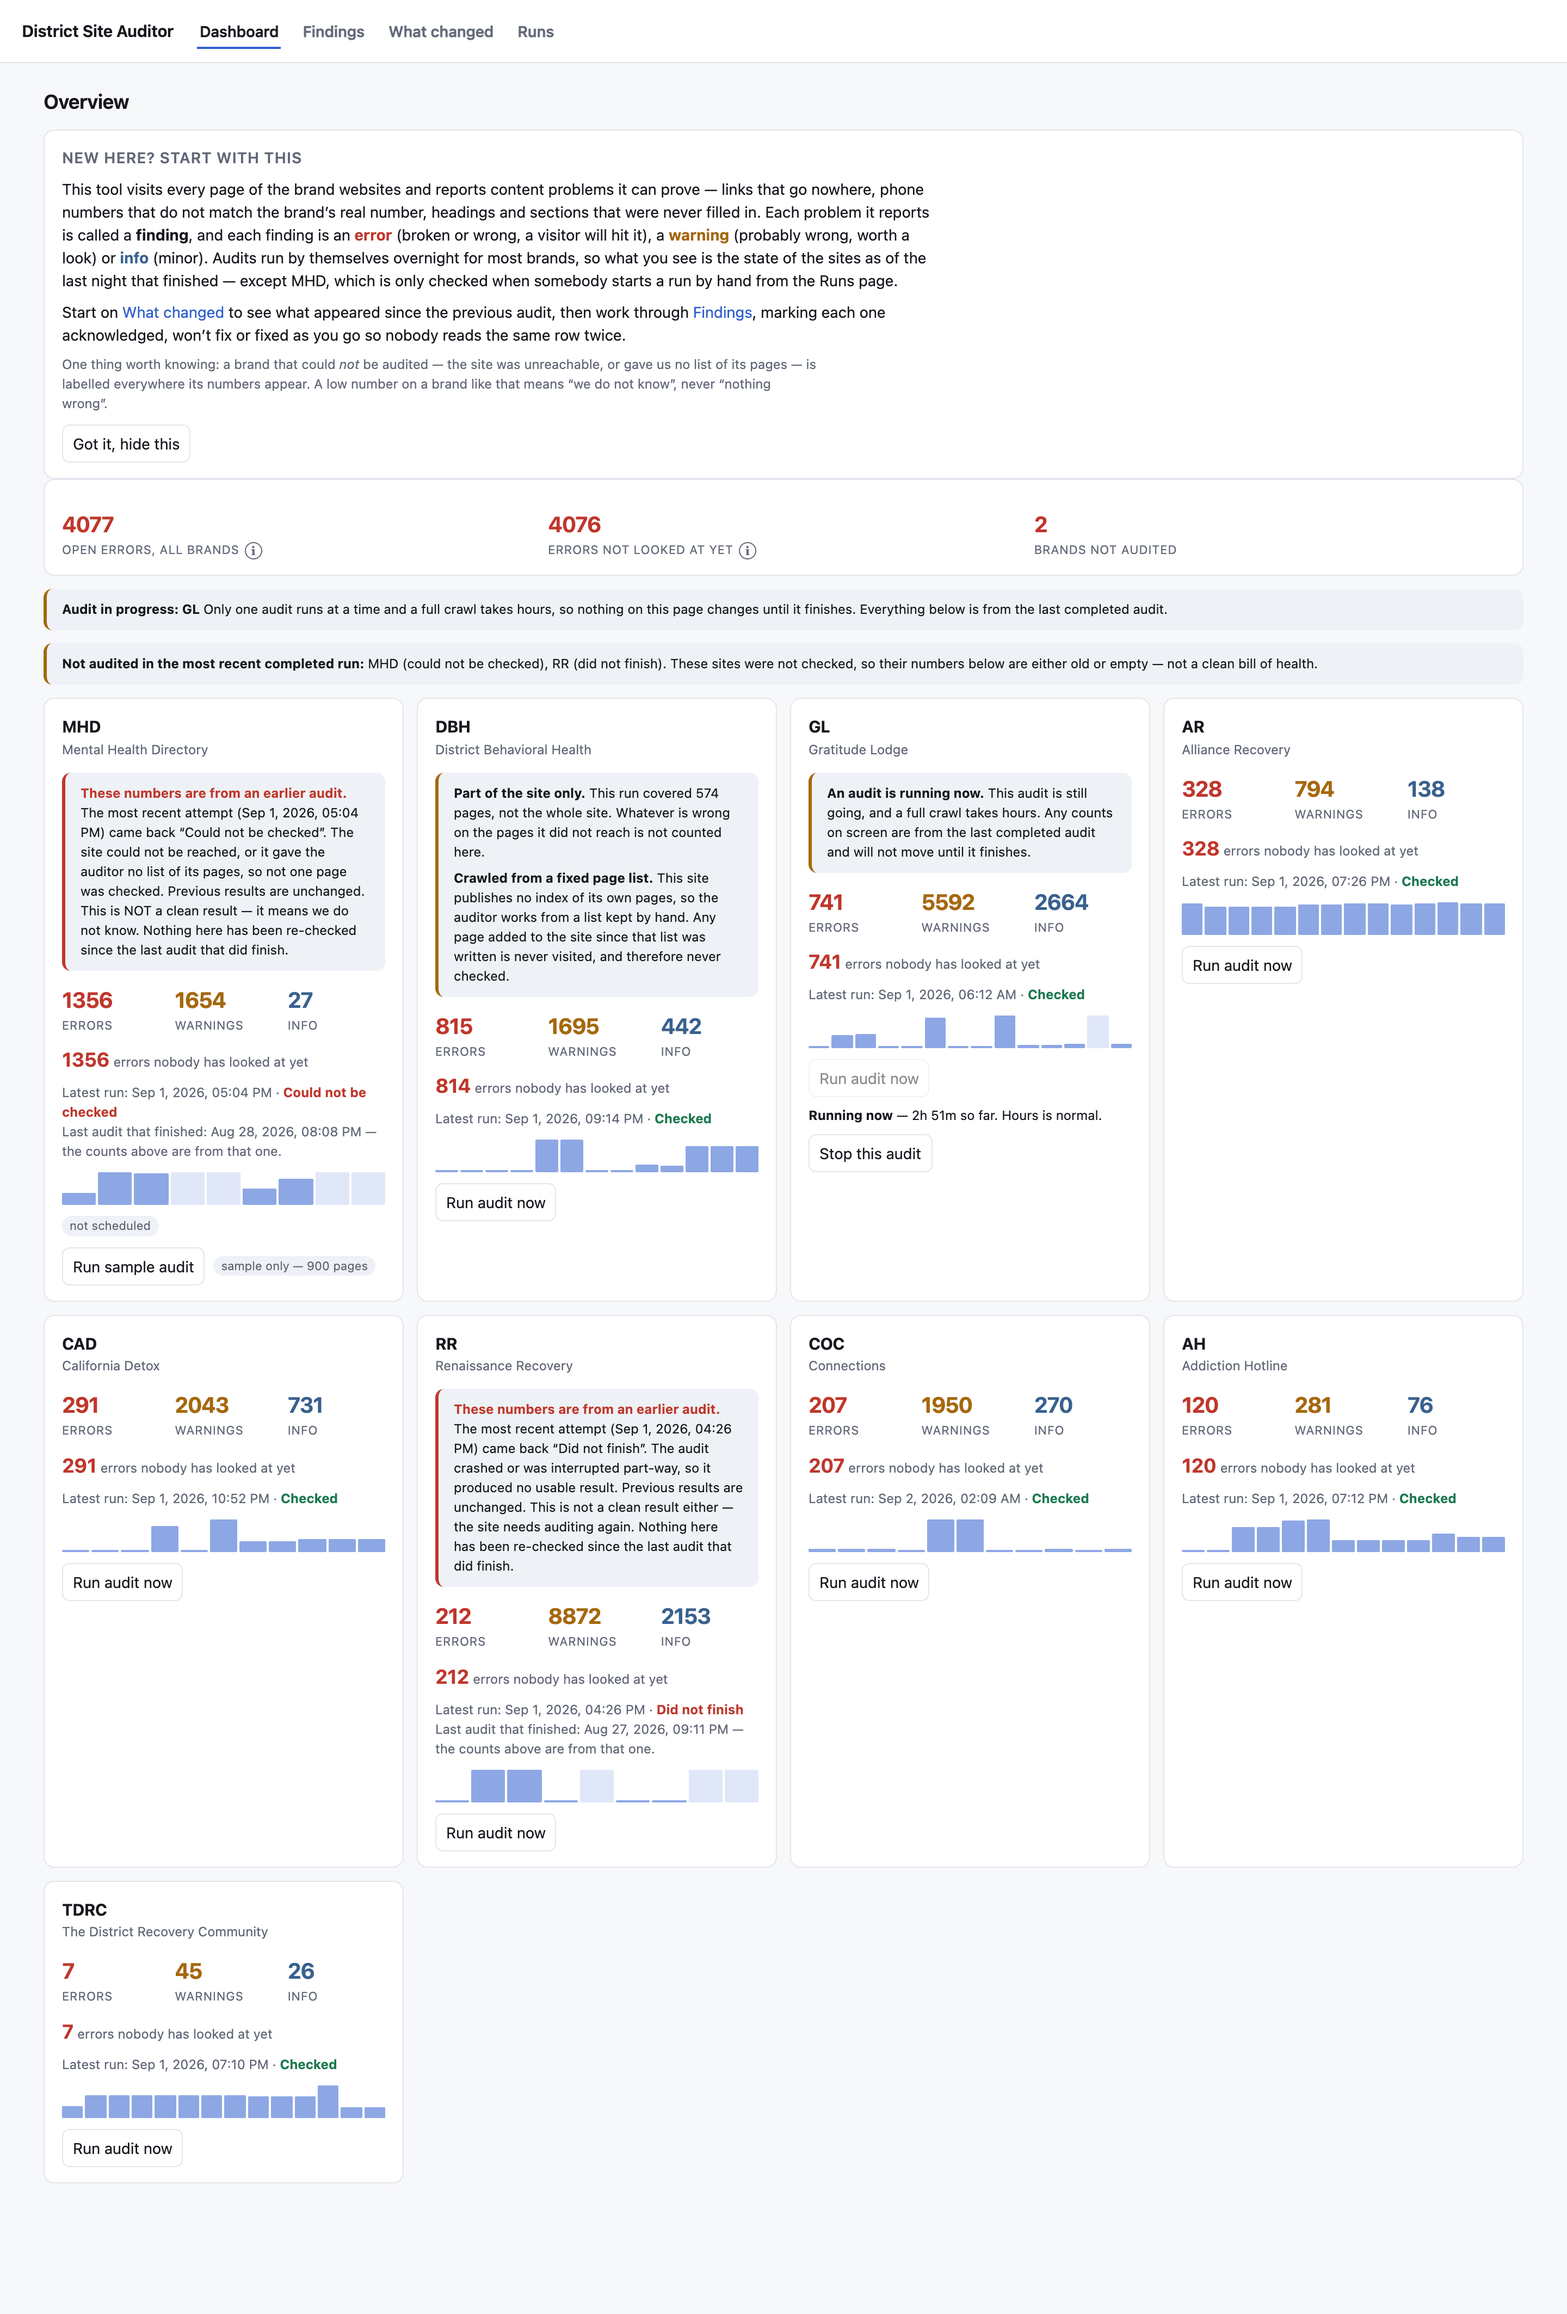
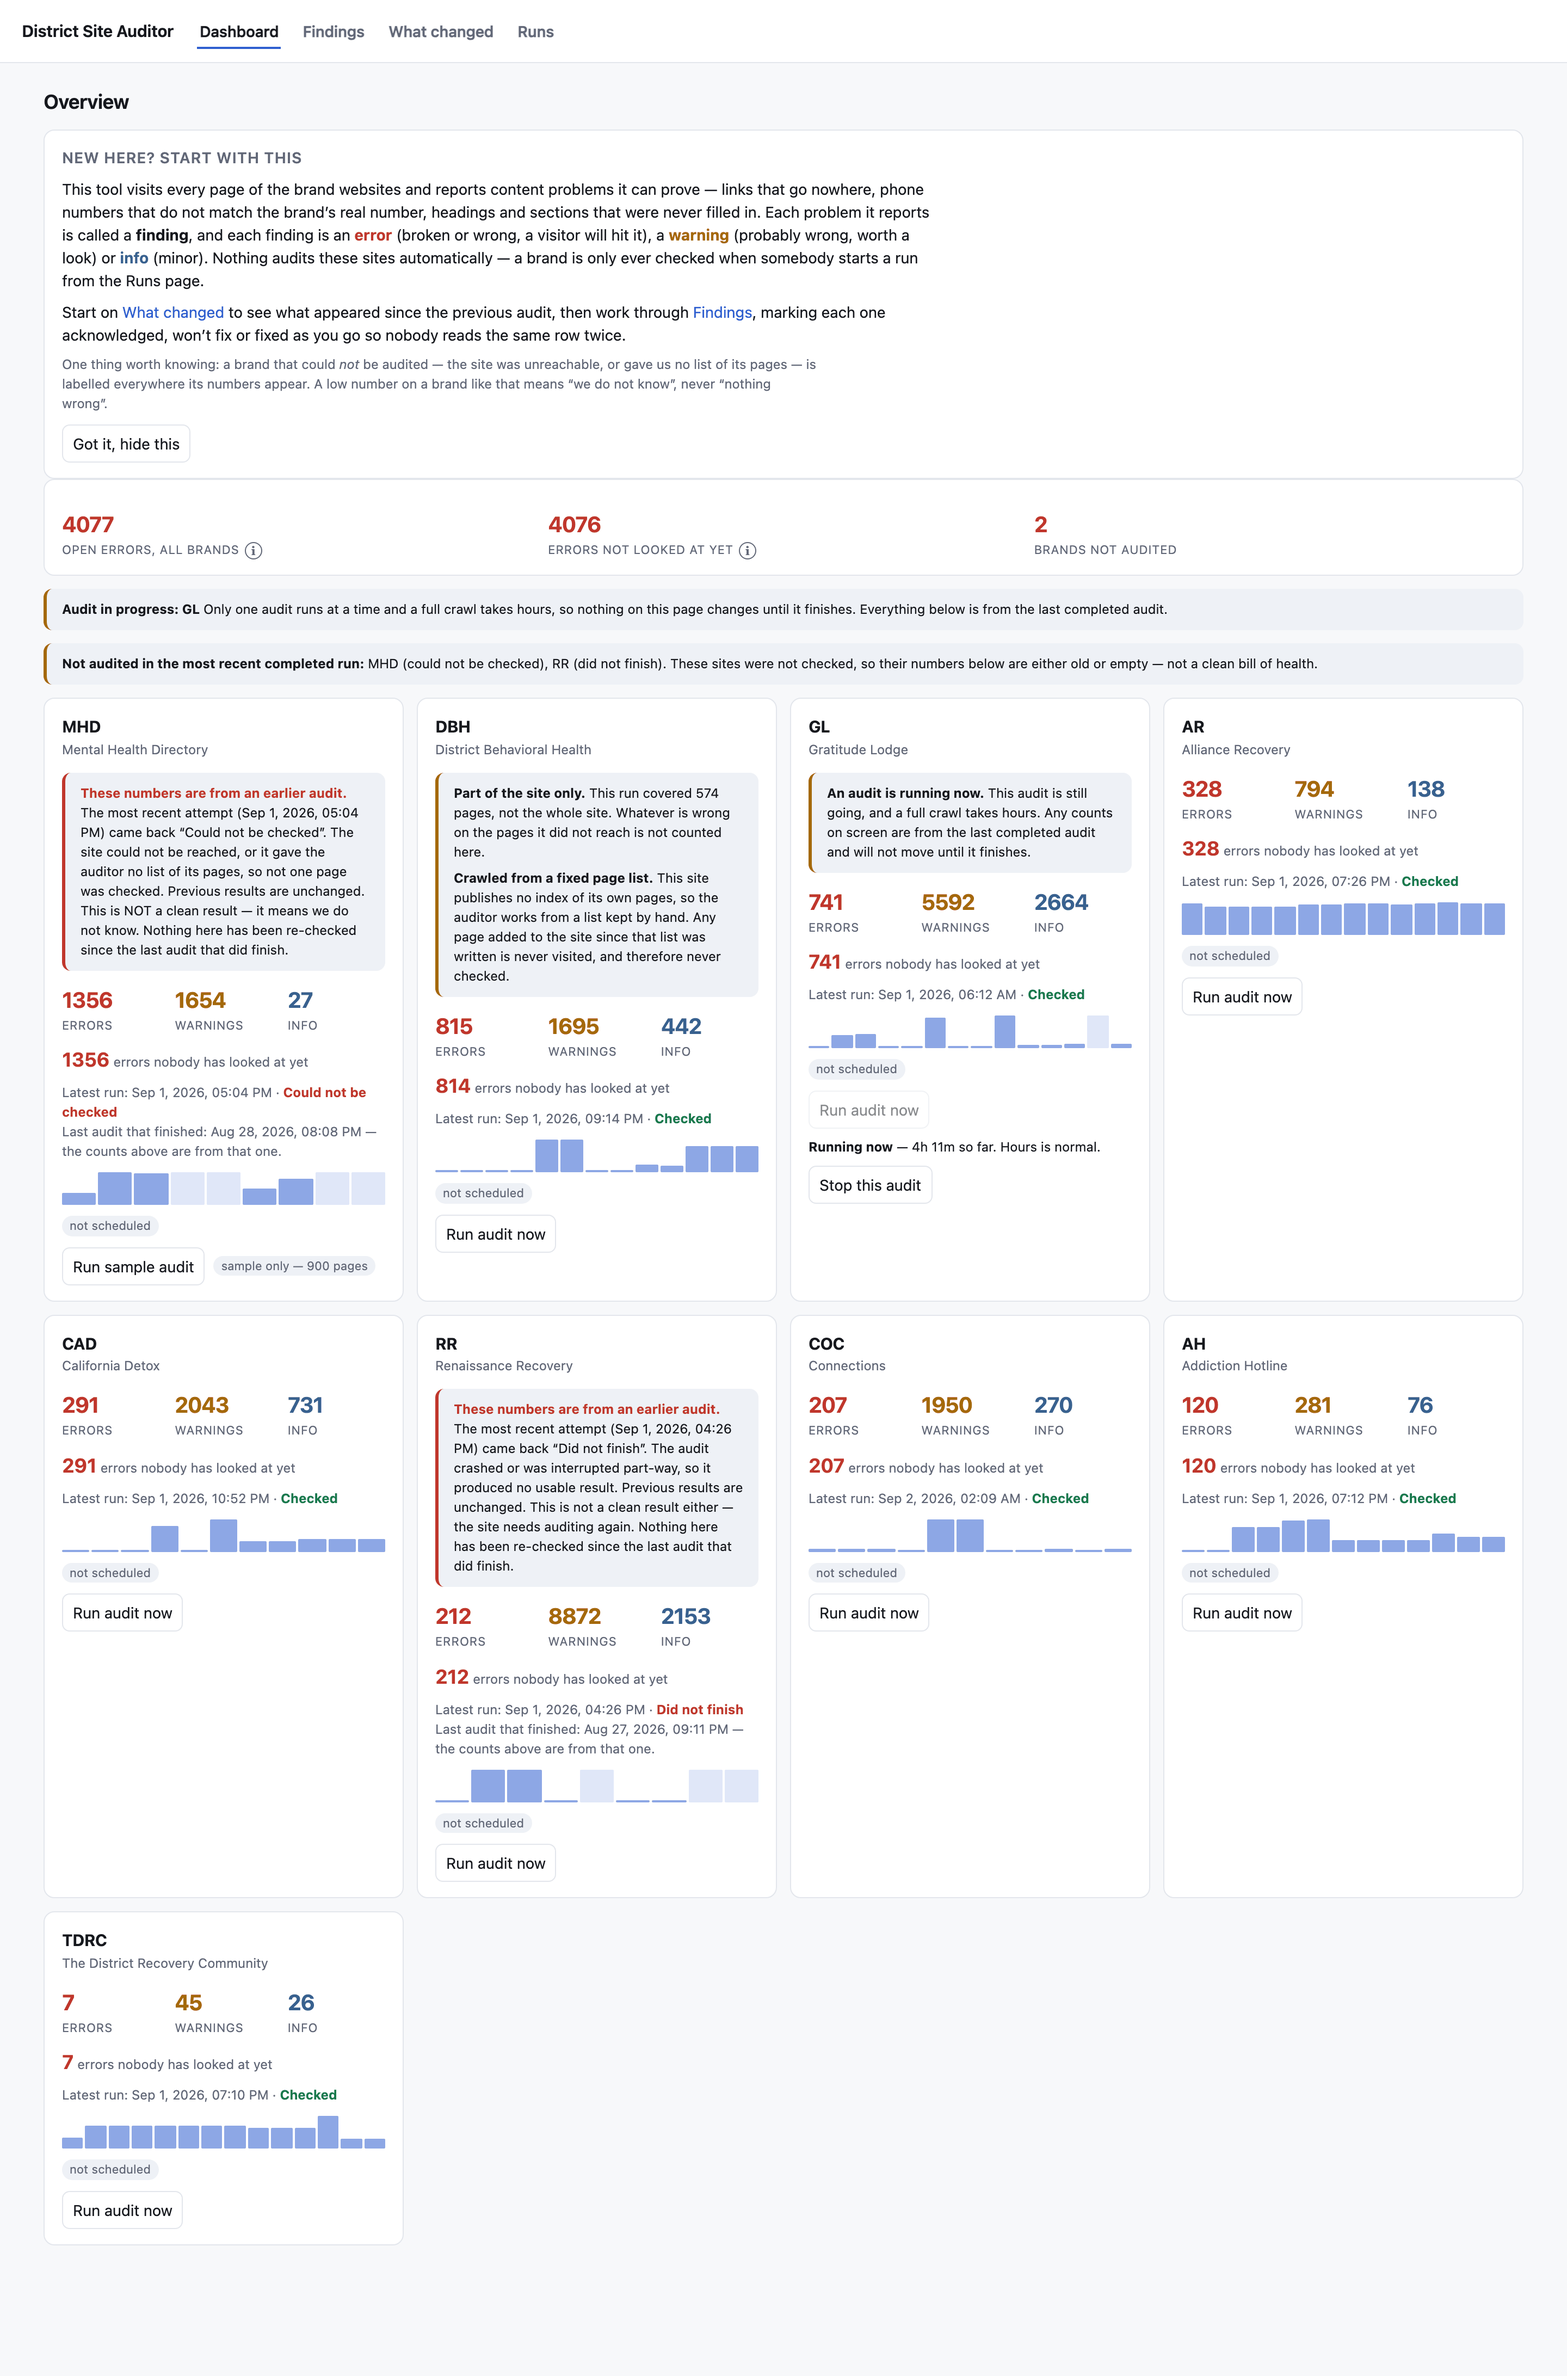
stop claiming the audits run themselves

diff --git a/server/importer.py b/server/importer.py
@@ -64,14 +64,22 @@ def ensure_brands(session: Session) -> dict[str, Brand]:
         brand.base_url = cfg.base_url
         brand.sitemap_url = getattr(cfg, "sitemap_url", None)
         brand.enumeration_mode = "urls_file" if getattr(cfg, "urls_file", None) else "sitemap"
-        # MHD is deliberately unscheduled: a full census is ~85h, so it is a labelled sample.
-        brand.schedule_cron = None if cfg.brand.upper() == "MHD" else "0 2 * * *"
-        # ...and for the same reason it caps every run at 900 pages. MHD's origin 503s under
-        # concurrent requests, so max_concurrency is a locked ceiling of 2 and throughput is ~2.1
-        # pages/min; the full 10,727-page census is ~85h of wall clock, which is why MHD has always
-        # been published as a labelled PARTIAL SAMPLE and never as a census. 900 is not a guess: the
-        # only MHD runs ever actually published sampled 901 and 353 pages, so this is the largest
-        # sample the brand has ever survived. Every other brand stays None (full census).
+        # schedule_cron is DELIBERATELY NOT SET HERE, and it used to be — every non-MHD brand was
+        # stamped "0 2 * * *" on every import. It is the only field the dashboard reads to decide
+        # whether to print "audits run by themselves overnight", and nothing on this install runs
+        # anything: deploy/auditor-nightly.timer is written but not installed, so that sentence was
+        # false. A false one is worse than silence here — a QA reader who believes it does NOT start
+        # a run, because they think one already happened, and the sites go unaudited while the
+        # dashboard says they are covered. So the field stays NULL until a timer genuinely exists
+        # and whoever installs it sets the cron. Leaving it out of this loop entirely also means an
+        # import can never wipe a cron somebody legitimately set.
+        #
+        # MHD caps every run at 900 pages, which is a separate fact and a real one. Its origin 503s
+        # under concurrent requests, so max_concurrency is a locked ceiling of 2 and throughput is
+        # ~2.1 pages/min; the full 10,727-page census is ~85h of wall clock, which is why MHD has
+        # always been published as a labelled PARTIAL SAMPLE and never as a census. 900 is not a
+        # guess: the only MHD runs ever actually published sampled 901 and 353 pages, so this is the
+        # largest sample the brand has ever survived. Every other brand stays None (full census).
         brand.default_sample_size = 900 if cfg.brand.upper() == "MHD" else None
         out[cfg.brand.upper()] = brand
     session.flush()

diff --git a/tests/test_server_importer.py b/tests/test_server_importer.py
@@ -293,3 +293,31 @@ def test_pages_record_the_run_that_first_saw_them(session, brand, tmp_path):
     assert old.last_seen_run_id == run2.id
     new = pages["https://www.gratitudelodge.com/brand-new"]
     assert new.first_seen_run_id == run2.id
+
+
+def test_ensure_brands_never_claims_a_schedule(session):
+    """A brand row must not come out of an import claiming to be audited automatically.
+
+    `brands.schedule_cron` is the only thing the dashboard reads to decide whether to print "audits
+    run by themselves overnight". The importer used to stamp every non-MHD brand with `0 2 * * *`
+    on every import, so that sentence appeared on installs where no timer existed. A false one is
+    worse than silence: a QA reader who believes it does not start a run, thinking one already
+    happened, and the sites go unaudited while the screen says they are covered.
+    """
+    brands = importer.ensure_brands(session)
+    assert brands, "no brand config was loaded"
+    claimed = {code for code, b in brands.items() if b.schedule_cron}
+    assert not claimed, f"import invented a schedule for {sorted(claimed)}"
+
+
+def test_ensure_brands_does_not_wipe_a_real_schedule(session):
+    """...and once a timer genuinely exists, a later import must leave its cron alone."""
+    first = importer.ensure_brands(session)
+    session.commit()
+    code = next(iter(first))
+    session.scalar(select(Brand).where(Brand.code == code)).schedule_cron = "0 2 * * *"
+    session.commit()
+
+    importer.ensure_brands(session)
+    session.commit()
+    assert session.scalar(select(Brand).where(Brand.code == code)).schedule_cron == "0 2 * * *"

diff --git a/tests/test_server_api.py b/tests/test_server_api.py
@@ -120,7 +120,7 @@ def seed(sessions):
                       schedule_cron="0 2 * * *")
         gl = mk_brand(s, "GL", "Gratitude Lodge", "https://www.gratitudelodge.com",
                       schedule_cron="0 2 * * *")
-        # MHD is deliberately unscheduled: a full census is ~131h, so it is a labelled sample.
+        # MHD is deliberately unscheduled: a full census is ~85h, so it is a labelled sample.
         mhd = mk_brand(s, "MHD", "Inpatient Mental Health Finder",
                        "https://inpatientmentalhealthfinder.com", schedule_cron=None)
 

diff --git a/deploy/README.md b/deploy/README.md
@@ -263,10 +263,25 @@ cp /opt/auditor/deploy/auditor-nightly.timer   /etc/systemd/system/
 systemctl daemon-reload
 systemctl enable --now auditor-nightly.timer
 
+# REQUIRED, and easy to miss: say which brands the timer is allowed to queue. Every brand ships
+# with schedule_cron NULL, so until you run this the timer fires and queues nothing.
+docker compose exec -T db psql -U district -d district \
+  -c "UPDATE brands SET schedule_cron = '0 2 * * *' WHERE code <> 'MHD'"
+
 systemctl list-timers auditor-nightly.timer    # NEXT should be tomorrow 02:00 Pacific
 systemctl start auditor-nightly.service        # dry test: queues now, ignores the timer
 journalctl -u auditor-nightly -n 30
 ```
+
+**Why that UPDATE is a separate step rather than a default.** `brands.schedule_cron` is the only
+thing the dashboard reads to decide whether to tell a reader "audits run by themselves overnight".
+The importer used to stamp every non-MHD brand with `0 2 * * *` on import, so the dashboard said
+that sentence on installs where no timer existed — and a false one is worse than silence: a QA
+person who believes it does not start a run, because they think one already happened, and the sites
+go unaudited while the screen says they are covered. So the field is NULL until a timer really
+exists. `nightly_enqueue.py` fails loudly (`no brands are scheduled — nothing was queued`, exit 1)
+rather than passing quietly, so a forgotten UPDATE shows up in `systemctl status` the first night.
+MHD stays NULL on purpose — a full census is ~85h, so it is only ever a hand-started sample.
 
 The timer fires at **02:00 America/Los_Angeles** — the client's stated 2am–5am PST crawl window —
 with `Persistent=true` and up to 15 minutes of jitter. The unit files explain why it is a timer and

diff --git a/docs/WHAT_THIS_TOOL_IS.md b/docs/WHAT_THIS_TOOL_IS.md
@@ -56,9 +56,8 @@ files and served alongside the API; `deploy/README.md` covers serving it.
 
 **Overview** — every brand, its open counts, and how many nobody has looked at yet. A brand that
 could not be audited says so on its own card instead of showing a low number that reads like good
-news. One caveat visible in this shot: the intro panel says audits run overnight, which is what the
-database records as *intended* — no timer is installed on this machine, so today nothing runs unless
-a person starts it. "Nothing runs it" below is the operative fact.
+news, and every card says "not scheduled" because nothing on this install runs on its own — the
+panel and the cards both say so rather than leaving a reader to assume otherwise.
 
 ![Dashboard](screenshots/dashboard.png)
 
